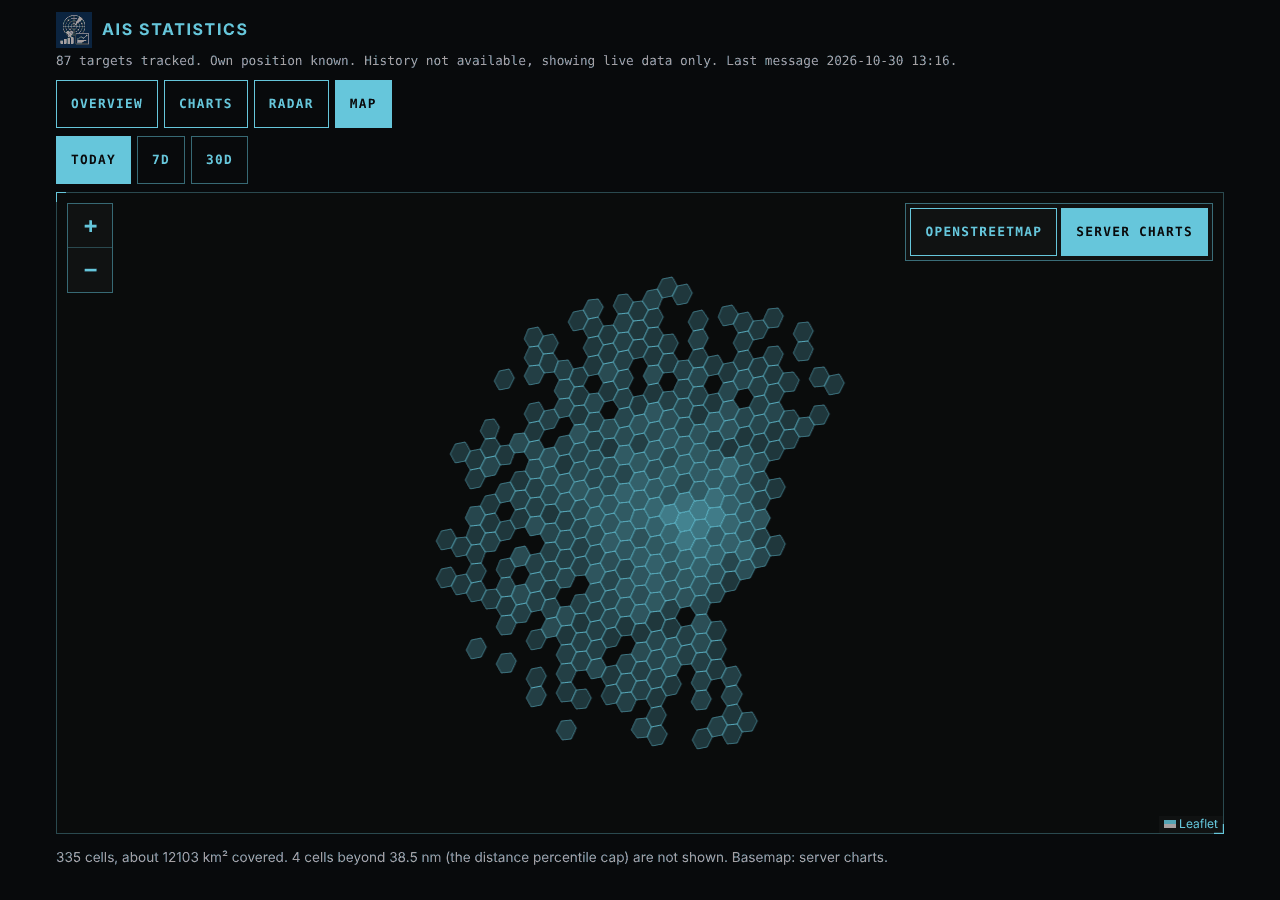
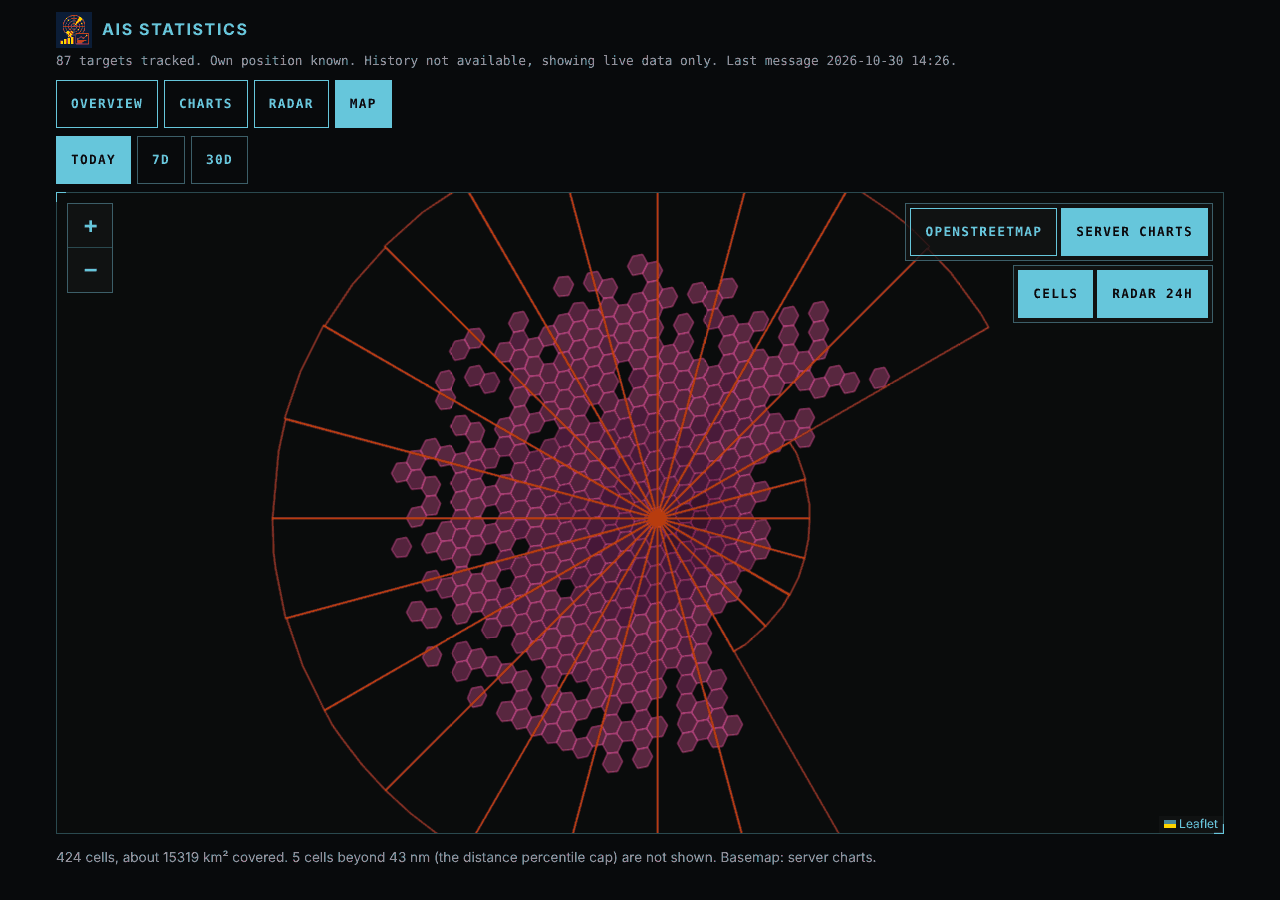
Match the web app map to the plotter overlay, with layer toggles
The web app map drew cells in the theme teal and had no radar, so it looked
unlike the Freeboard-SK overlay of the same data. Move the overlay colours
into src/style.ts, which both the overlay manifest and the web app import,
and draw the 24 hour radar wedges from the overlay GeoJSON route. Add
toggles that show or hide the cells and the radar, remembered per browser.

The screenshot script serves radar wedges so the map screenshot shows
them.

diff --git a/web/src/map.ts b/web/src/map.ts
@@ -1,4 +1,6 @@
-// Coverage map with a window selector and the basemap switch.
+// Coverage map with a window selector, the basemap switch and layer
+// toggles for the coverage cells and the radar. Cells and radar use the
+// plotter overlay's colours.
 import * as L from 'leaflet'
 import { get, type CoverageResponse } from './api'
 import {
@@ -10,6 +12,16 @@ import {
   type Basemap,
 } from './basemap'
 import { el } from './format'
+import { layerVisible, saveLayerVisible, type Layer } from './layers'
+import {
+  CELL_FILL_OPACITY,
+  CELL_LINE_WIDTH,
+  OVERLAY_OPACITY,
+  RADAR_COLOUR,
+  RADAR_LINE_WIDTH,
+  cellColour,
+} from '../../src/style'
+import { SECTOR_WIDTH_DEG } from '../../src/paths'
 import type { Unit } from './units'
 
 export interface MapView {
@@ -22,23 +34,43 @@ export interface MapView {
   restyle(): void
 }
 
-const cssVar = (name: string) =>
-  getComputedStyle(document.documentElement).getPropertyValue(name).trim()
-
 const OSM = 'https://tile.openstreetmap.org/{z}/{x}/{y}.png'
 const SEAMARK = 'https://tiles.openseamap.org/seamark/{z}/{x}/{y}.png'
+
+const bearings = (sector: number) =>
+  `${sector * SECTOR_WIDTH_DEG}° to ${(sector + 1) * SECTOR_WIDTH_DEG}°`
 
 export function createMap(): MapView {
   const element = el('div', { class: 'map-view' })
   const info = el('p', { class: 'muted small' })
-  const switcher = el('div', { class: 'map-switcher', role: 'group' })
+  const switcher = el('div', {
+    class: 'map-switcher',
+    role: 'group',
+    'aria-label': 'Basemap',
+  })
+  const toggles = el('div', {
+    class: 'map-switcher map-layers',
+    role: 'group',
+    'aria-label': 'Layers',
+  })
   const mapEl = el('div', { class: 'map' })
-  const card = el('div', { class: 'map-card sk-card' }, mapEl, switcher)
+  const card = el(
+    'div',
+    { class: 'map-card sk-card' },
+    mapEl,
+    switcher,
+    toggles,
+  )
   element.append(card, info)
 
   let map: L.Map | undefined
   let base: L.Layer[] = []
   let cells: L.GeoJSON | undefined
+  let radar: L.GeoJSON | undefined
+  const visible: Record<Layer, boolean> = {
+    cells: layerVisible('cells'),
+    radar: layerVisible('radar'),
+  }
   let current: Basemap | undefined
   let fitted = false
 
@@ -70,6 +102,7 @@ export function createMap(): MapView {
     }
     for (const l of base) l.addTo(map)
     cells?.bringToFront()
+    radar?.bringToFront()
     for (const btn of switcher.querySelectorAll('button'))
       btn.setAttribute('aria-pressed', String(btn.dataset.basemap === b))
   }
@@ -86,6 +119,37 @@ export function createMap(): MapView {
     switcher.append(btn)
   }
 
+  function applyVisibility() {
+    for (const [name, layer] of [
+      ['cells', cells],
+      ['radar', radar],
+    ] as const) {
+      if (!map || !layer) continue
+      if (visible[name] && !map.hasLayer(layer)) layer.addTo(map)
+      if (!visible[name] && map.hasLayer(layer)) layer.remove()
+    }
+    radar?.bringToFront()
+    for (const btn of toggles.querySelectorAll('button'))
+      btn.setAttribute(
+        'aria-pressed',
+        String(visible[btn.dataset.layer as Layer]),
+      )
+  }
+
+  for (const [name, label] of [
+    ['cells', 'Cells'],
+    ['radar', 'Radar 24h'],
+  ] as const) {
+    const btn = el('button', { type: 'button', 'data-layer': name }, label)
+    btn.addEventListener('click', () => {
+      visible[name] = !visible[name]
+      saveLayerVisible(name, visible[name])
+      applyVisibility()
+    })
+    toggles.append(btn)
+  }
+  applyVisibility()
+
   async function ensureMap() {
     if (map) return
     map = L.map(mapEl, { worldCopyJump: true }).setView([0, 0], 2)
@@ -94,34 +158,63 @@ export function createMap(): MapView {
     await setBasemap(chosen)
   }
 
+  // The plotter draws the overlay at OVERLAY_OPACITY on top of the paint
+  // opacity, so the same product here gives the same look.
   const cellStyle = (f?: GeoJSON.Feature): L.PathOptions => {
-    const t = Number(f?.properties?.intensity ?? 0)
-    const color = cssVar('--color-teal') || '#66c6db'
+    const color = cellColour(Number(f?.properties?.intensity ?? 0))
     return {
       color,
-      weight: 0.5,
+      weight: CELL_LINE_WIDTH,
+      opacity: OVERLAY_OPACITY,
       fillColor: color,
-      fillOpacity: 0.15 + 0.5 * t,
+      fillOpacity: CELL_FILL_OPACITY * OVERLAY_OPACITY,
     }
+  }
+
+  const radarStyle: L.PathOptions = {
+    color: RADAR_COLOUR,
+    weight: RADAR_LINE_WIDTH,
+    opacity: OVERLAY_OPACITY,
+    fill: false,
   }
 
   return {
     element,
     restyle() {
-      cells?.setStyle(cellStyle)
+      // Cell and radar colours follow the plotter overlay, not the theme.
     },
     async show(window, units) {
       await ensureMap()
       map!.invalidateSize()
-      const c = await get<CoverageResponse>('/coverage', { window })
+      const [c, overlay] = await Promise.all([
+        get<CoverageResponse>('/coverage', { window }),
+        get<GeoJSON.FeatureCollection>('/overlay/coverage.geojson').catch(
+          () => undefined,
+        ),
+      ])
       cells?.remove()
+      radar?.remove()
       cells = L.geoJSON(c.geojson, {
         style: cellStyle,
         onEachFeature: (f, layer) =>
           layer.bindTooltip(
             `${f.properties?.reports} reports, nearest ${units.distance.format(f.properties?.minDistanceM)}`,
           ),
-      }).addTo(map!)
+      })
+      const wedges: GeoJSON.FeatureCollection = {
+        type: 'FeatureCollection',
+        features: (overlay?.features ?? []).filter(
+          (f) => f.properties?.kind === 'radar',
+        ),
+      }
+      radar = L.geoJSON(wedges, {
+        style: radarStyle,
+        onEachFeature: (f, layer) =>
+          layer.bindTooltip(
+            `${bearings(Number(f.properties?.sector))}: p99 ${units.distance.format(f.properties?.p99M)} over 24h`,
+          ),
+      })
+      applyVisibility()
       if (!fitted && c.cells > 0) {
         map!.fitBounds(cells.getBounds(), { padding: [16, 16] })
         fitted = true

diff --git a/src/overlay.ts b/src/overlay.ts
@@ -6,6 +6,15 @@
 import { destination, M_PER_NM } from './geo'
 import type { LatLon } from './ownposition'
 import type { Radar } from './query'
+import {
+  CELL_FILL_OPACITY,
+  CELL_HIGH,
+  CELL_LINE_WIDTH,
+  CELL_LOW,
+  OVERLAY_OPACITY,
+  RADAR_COLOUR,
+  RADAR_LINE_WIDTH,
+} from './style'
 
 export const OVERLAY_ID = 'coverage'
 export const OVERLAY_SOURCE = 'coverage'
@@ -26,16 +35,14 @@ export function overlayUrls(pluginId: string): OverlayUrls {
   }
 }
 
-// Magenta to purple stands out from both chart water and land; a blue ramp
-// disappears over the sea.
 const CELL_RAMP = [
   'interpolate',
   ['linear'],
   ['get', 'intensity'],
   0,
-  '#f768a1',
+  CELL_LOW,
   1,
-  '#7a0177',
+  CELL_HIGH,
 ]
 
 export function overlayStyle(dataUrl: string): object {
@@ -50,21 +57,21 @@ export function overlayStyle(dataUrl: string): object {
         type: 'fill',
         source: OVERLAY_SOURCE,
         filter: ['==', ['get', 'kind'], 'cell'],
-        paint: { 'fill-color': CELL_RAMP, 'fill-opacity': 0.45 },
+        paint: { 'fill-color': CELL_RAMP, 'fill-opacity': CELL_FILL_OPACITY },
       },
       {
         id: 'cell-outlines',
         type: 'line',
         source: OVERLAY_SOURCE,
         filter: ['==', ['get', 'kind'], 'cell'],
-        paint: { 'line-color': CELL_RAMP, 'line-width': 1 },
+        paint: { 'line-color': CELL_RAMP, 'line-width': CELL_LINE_WIDTH },
       },
       {
         id: 'radar',
         type: 'line',
         source: OVERLAY_SOURCE,
         filter: ['==', ['get', 'kind'], 'radar'],
-        paint: { 'line-color': '#d94801', 'line-width': 1.5 },
+        paint: { 'line-color': RADAR_COLOUR, 'line-width': RADAR_LINE_WIDTH },
       },
     ],
   }
@@ -98,7 +105,7 @@ export function buildManifest(
         type: 'data',
         band: 'aboveCharts',
         visible: true,
-        opacity: 0.8,
+        opacity: OVERLAY_OPACITY,
         style: overlayStyle(urls.data),
       },
     ],

diff --git a/src/style.ts b/src/style.ts
@@ -1,0 +1,36 @@
+// Coverage and radar colours, shared by the plotter overlay and the web
+// app map so both draw the footprint the same way. Magenta to purple stands
+// out from both chart water and land; a blue ramp disappears over the sea.
+
+/** Cell colour at coverage intensity 0 and 1. */
+export const CELL_LOW = '#f768a1'
+export const CELL_HIGH = '#7a0177'
+export const CELL_FILL_OPACITY = 0.45
+export const CELL_LINE_WIDTH = 1
+
+export const RADAR_COLOUR = '#d94801'
+export const RADAR_LINE_WIDTH = 1.5
+
+/** Overlay opacity the plotter applies on top of the layer paint. */
+export const OVERLAY_OPACITY = 0.8
+
+/**
+ * The cell colour for an intensity from 0 to 1, interpolated linearly in
+ * RGB as a MapLibre `interpolate` expression does.
+ */
+export function cellColour(intensity: number): string {
+  const t = Math.min(1, Math.max(0, Number.isFinite(intensity) ? intensity : 0))
+  const a = rgb(CELL_LOW)
+  const b = rgb(CELL_HIGH)
+  return (
+    '#' +
+    a
+      .map((v, i) => Math.round(v + (b[i]! - v) * t))
+      .map((v) => v.toString(16).padStart(2, '0'))
+      .join('')
+  )
+}
+
+function rgb(hex: string): number[] {
+  return [1, 3, 5].map((i) => parseInt(hex.slice(i, i + 2), 16))
+}

diff --git a/web/src/layers.ts b/web/src/layers.ts
@@ -1,0 +1,22 @@
+// Map layer visibility (SPEC 7): the coverage cells and the radar can each
+// be switched off, and the choice is remembered per browser.
+export type Layer = 'cells' | 'radar'
+
+const key = (l: Layer) => `signalk-ais-statistics.layer.${l}`
+
+/** Both layers are shown unless switched off in this browser. */
+export function layerVisible(l: Layer): boolean {
+  try {
+    return localStorage.getItem(key(l)) !== 'off'
+  } catch {
+    return true
+  }
+}
+
+export function saveLayerVisible(l: Layer, on: boolean): void {
+  try {
+    localStorage.setItem(key(l), on ? 'on' : 'off')
+  } catch {
+    // storage unavailable, the choice lasts for this page only
+  }
+}

diff --git a/web/static/style.css b/web/static/style.css
@@ -373,6 +373,10 @@ svg.radar .axis {
   border: 1px solid rgba(var(--theme-color-rgb), 0.5);
   padding: 4px;
 }
+/* Layer toggles sit below the basemap switch. */
+.map-layers {
+  top: 72px;
+}
 .leaflet-bar,
 .leaflet-touch .leaflet-bar {
   border: 1px solid rgba(var(--theme-color-rgb), 0.5);

diff --git a/ARCHITECTURE.md b/ARCHITECTURE.md
@@ -123,7 +123,11 @@ charts reuse their SVG paths and rects. Pure helpers (`units.ts`,
 `time.ts`, `route.ts`, `backoff.ts`) are unit tested under `test/web`. The map has a basemap switch (OSM/OpenSeaMap or the server's chart
 provider); its default follows the internet-status plugin's online and
 metered state when present, and a manual choice is remembered in
-`localStorage`.
+`localStorage`. Toggles show or hide the coverage cells and the radar
+wedges (`layers.ts`, also remembered in `localStorage`). The radar wedges
+come from the overlay GeoJSON route, and the cell and radar colours are
+imported from `src/style.ts`, which the plotter overlay uses too, so the
+app map and the plotter look the same.
 
 ## 3. Data Models
 
@@ -204,6 +208,7 @@ src/
   query.ts            windowed queries
   api.ts              REST routes
   overlay.ts          plotterExtensions provider, manifest and radar wedges
+  style.ts            coverage and radar colours shared by overlay and web app
   geo.ts              haversine, bearing, sector
   types/              typings for untyped dependencies
 web/src/              web app source, built into public/ by web/build.mjs

diff --git a/SPEC.md b/SPEC.md
@@ -320,7 +320,9 @@ A SignalK web app, listed in the admin UI, with:
   p95 and p99 per hour (max shown separately and marked untrusted).
 - Radar: the 24-sector bearing view for class A and B.
 - Map: the coverage footprint with a window selector (day, 7 days, 30
-  days) and an on-screen basemap switch between OpenStreetMap with
+  days), the 24 hour radar wedges from the plotter overlay, on-screen
+  toggles that show or hide the cells and the radar (remembered per
+  browser), and an on-screen basemap switch between OpenStreetMap with
   OpenSeaMap overlay, and the SignalK server's chart provider. Default:
   OSM/OpenSeaMap when the internet is available and the connection is not
   metered, read from `network.internet.state` (`online`, `offline` or
